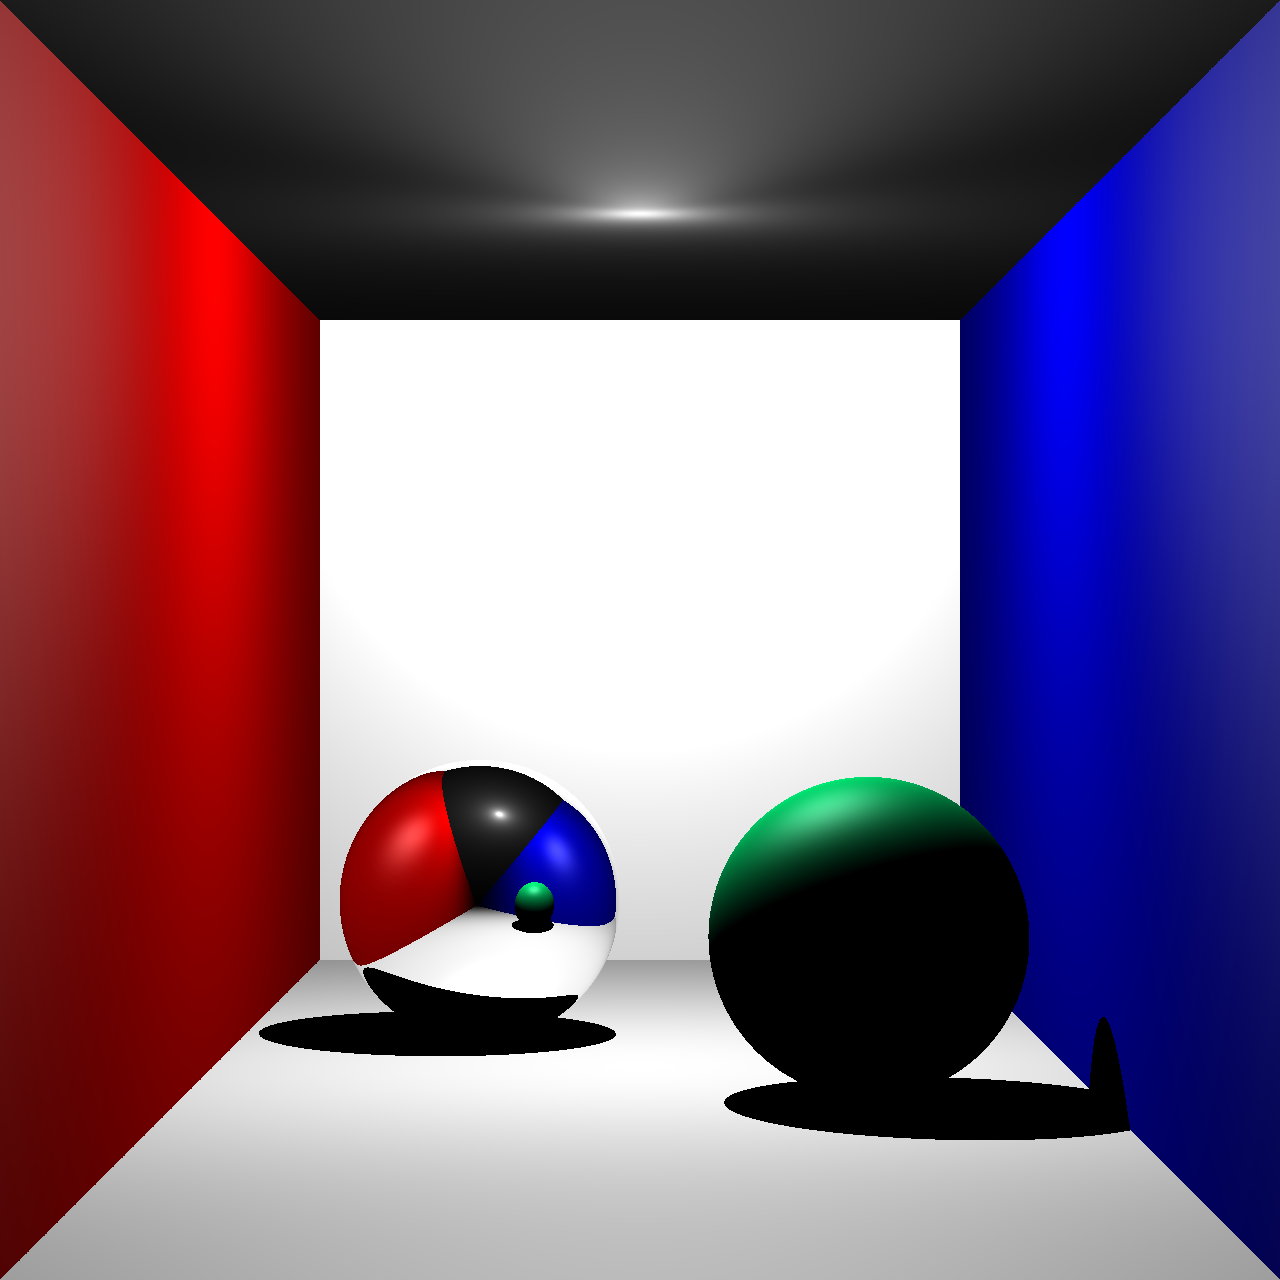
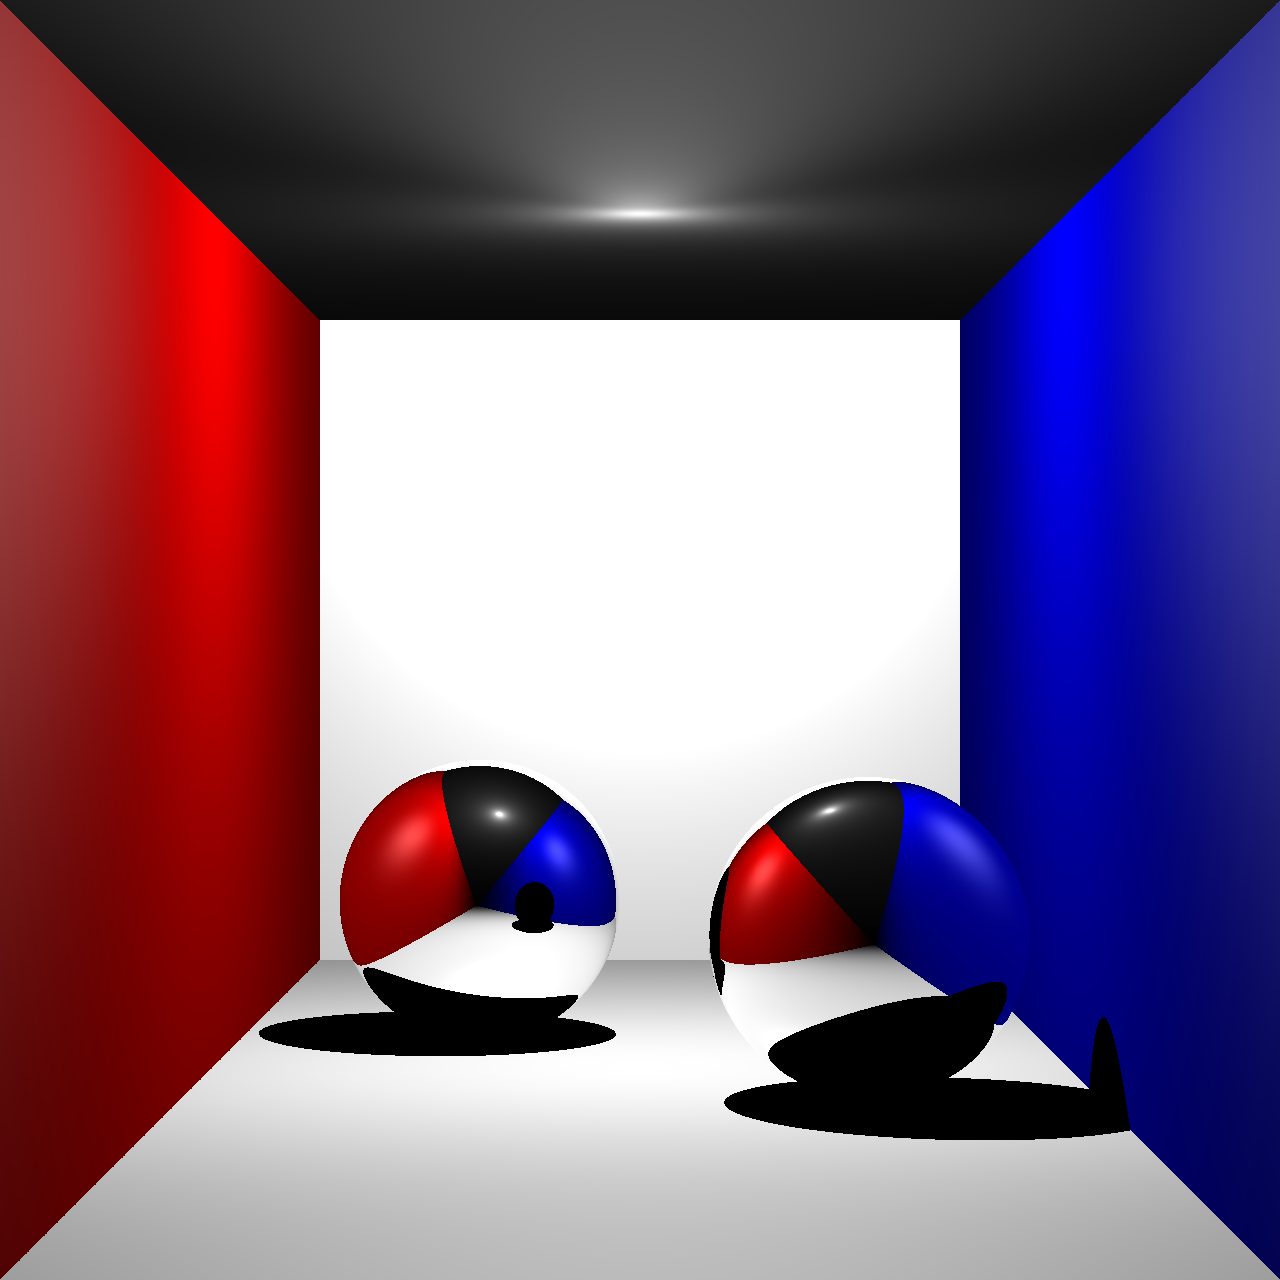
ブランチ作成

Changed region(s): [[0.5312, 0.5938, 0.8125, 0.8438], [0.4062, 0.6875, 0.4375, 0.7188]]

diff --git a/raytracing_multiLight.cpp b/raytracing_multiLight.cpp
@@ -1,7 +1,7 @@
 #include "raytracing_lib.hpp"
 
-#define GEOMETRY_NUM 2
-#define LIGHT_NUM 1
+#define GEOMETRY_NUM 6
+#define LIGHT_NUM 3
 
 int main()
 {
@@ -17,26 +17,26 @@ int main()
     // 描画オブジェクト
     Shape *geometry[GEOMETRY_NUM];
 
-    // // 球
-    // geometry[0] = new Sphere(Vector3(3, 0, 25), 1.f);
-    // geometry[1] = new Sphere(Vector3(2, 0, 20), 1.f);
-    // geometry[2] = new Sphere(Vector3(1, 0, 15), 1.f);
-    // geometry[3] = new Sphere(Vector3(0, 0, 10), 1.f);
-    // geometry[4] = new Sphere(Vector3(-1, 0, 5), 1.f);
-    // // マテリアルセット
-    // geometry[0]->material.diffuse = FColor(0.69f, 0.f, 0.f);
-    // geometry[1]->material.diffuse = FColor(0.f, 0.69f, 0.f);
-    // geometry[2]->material.diffuse = FColor(0.f, 0.f, 0.69f);
-    // geometry[3]->material.diffuse = FColor(0.f, 0.69f, 0.69f);
-    // geometry[4]->material.diffuse = FColor(0.69f, 0.f, 0.69f);
-    // // 平面
-    // geometry[5] = new Plane(Vector3(0, 1, 0), Vector3(0, -1, 0));
-
     // 球
-    geometry[0] = new Sphere(Vector3(-1, 0, 5), 1.f);
-    geometry[0]->material.diffuse = FColor(0.69f, 0.f, 0.69f);
+    geometry[0] = new Sphere(Vector3(3, 0, 25), 1.f);
+    geometry[1] = new Sphere(Vector3(2, 0, 20), 1.f);
+    geometry[2] = new Sphere(Vector3(1, 0, 15), 1.f);
+    geometry[3] = new Sphere(Vector3(0, 0, 10), 1.f);
+    geometry[4] = new Sphere(Vector3(-1, 0, 5), 1.f);
+    // マテリアルセット
+    geometry[0]->material.diffuse = FColor(0.69f, 0.f, 0.f);
+    geometry[1]->material.diffuse = FColor(0.f, 0.69f, 0.f);
+    geometry[2]->material.diffuse = FColor(0.f, 0.f, 0.69f);
+    geometry[3]->material.diffuse = FColor(0.f, 0.69f, 0.69f);
+    geometry[4]->material.diffuse = FColor(0.69f, 0.f, 0.69f);
     // 平面
-    geometry[1] = new Plane(Vector3(0, 1, 0), Vector3(0, -1, 0));
+    geometry[5] = new Plane(Vector3(0, 1, 0), Vector3(0, -1, 0));
+
+    // // 球
+    // geometry[0] = new Sphere(Vector3(0, 0, 5), 1.f);
+    // geometry[0]->material.diffuse = FColor(0.69f, 0.f, 0.69f);
+    // // 平面
+    // geometry[1] = new Plane(Vector3(0, 1, 0), Vector3(0, -1, 0));
 
     // 視点の位置を決める
     Camera camera;
@@ -51,7 +51,7 @@ int main()
 
     PointLight *point1 = new PointLight();
     point1->position = Vector3(-5, 5, -5);
-    point1->intensity = FColor(0.5, 0.5, 0.5);
+    point1->intensity = FColor(1, 1, 1);
     PointLight *point2 = new PointLight();
     point2->position = Vector3(5, 0, -5);
     point2->intensity = FColor(0.5, 0.5, 0.5);
@@ -60,8 +60,8 @@ int main()
     point3->intensity = FColor(0.5, 0.5, 0.5);
 
     lights[0] = point1;
-    // lights[1] = point2;
-    // lights[2] = point3;
+    lights[1] = point2;
+    lights[2] = point3;
 
     // シーン作成
     Scene scene;
@@ -107,7 +107,7 @@ int main()
         delete o;
     }
 
-    for(auto l : lights)
+    for (auto l : lights)
     {
         delete l;
     }

diff --git a/raytracing_lib.cpp b/raytracing_lib.cpp
@@ -215,9 +215,9 @@ FColor phongShading(
     diffuse.g = lighting.intensity.g * material.diffuse.g * normal.dot(incident);
     diffuse.b = lighting.intensity.b * material.diffuse.b * normal.dot(incident);
     diffuse.normalize();
-    recordLine("diffuse.r = %f\n", diffuse.r);
-    recordLine("diffuse.g = %f\n", diffuse.g);
-    recordLine("diffuse.b = %f\n", diffuse.b);
+    // recordLine("diffuse.r = %f\n", diffuse.r);
+    // recordLine("diffuse.g = %f\n", diffuse.g);
+    // recordLine("diffuse.b = %f\n", diffuse.b);
 
     // スペキュラー
     // 鏡面反射係数 * 光源強度 * 視線逆ベクトル・入射光の正反射ベクトル
@@ -230,9 +230,9 @@ FColor phongShading(
     specular.g = lighting.intensity.g * material.specular.g * cos_a;
     specular.b = lighting.intensity.b * material.specular.b * cos_a;
     specular.normalize();
-    recordLine("specular.r = %f\n", specular.r);
-    recordLine("specular.g = %f\n", specular.g);
-    recordLine("specular.b = %f\n", specular.b);
+    // recordLine("specular.r = %f\n", specular.r);
+    // recordLine("specular.g = %f\n", specular.g);
+    // recordLine("specular.b = %f\n", specular.b);
 
     // 視線逆ベクトルと正反射ベクトルの内積もしくは，
     // 物体面の法線ベクトルと入射ベクトルの内積が負数の場合，
@@ -389,19 +389,19 @@ void shadowing(
             FColor phong = phongShading(
                 *intersectionPoint, *ray, lighting, intersectionResult->shape->material);
             *luminance = *luminance + phong;
-            recordLine("phong.r = %f\n", phong.r);
-            recordLine("phong.g = %f\n", phong.g);
-            recordLine("phong.b = %f\n", phong.b);
+            // recordLine("phong.r = %f\n", phong.r);
+            // recordLine("phong.g = %f\n", phong.g);
+            // recordLine("phong.b = %f\n", phong.b);
 
             if (idx == scene->lightNum - 1)
             {
                 // 最後に環境光成分を加える
                 Material material = intersectionResult->shape->material;
                 *luminance = *luminance + material.ambient * scene->ambientIntensity;
-                recordLine("material.diffuse.r = %f\n", material.diffuse.r);
-                recordLine("material.diffuse.r = %f\n", material.diffuse.g);
-                recordLine("material.diffuse.r = %f\n", material.diffuse.b);
-                recordLine("====================================\n");
+                // recordLine("material.diffuse.r = %f\n", material.diffuse.r);
+                // recordLine("material.diffuse.r = %f\n", material.diffuse.g);
+                // recordLine("material.diffuse.r = %f\n", material.diffuse.b);
+                // recordLine("====================================\n");
             }
         }
     }

diff --git a/raytracing_reflection.cpp b/raytracing_reflection.cpp
@@ -1,6 +1,7 @@
 #include "raytracing_lib.hpp"
 
 #define GEOMETRY_NUM 7
+#define LIGHT_NUM 1
 
 int main()
 {
@@ -24,10 +25,10 @@ int main()
     geometry[0]->material.reflection = FColor(1.f, 1.f, 1.f);
     geometry[1] = new Sphere(Vector3(0.5, -0.65, 2), 0.35f);
     geometry[1]->material.diffuse = FColor(0.f, 1.f, 0.5f);
-    // geometry[1]->material =
-    //     Material(FColor(0.f, 0.f, 0.f), FColor(0.f, 0.f, 0.f), FColor(0.f, 0.f, 0.f), 0.f);
-    // geometry[1]->material.useReflection = true;
-    // geometry[1]->material.reflection = FColor(1.f, 1.f, 1.f);
+    geometry[1]->material =
+        Material(FColor(0.f, 0.f, 0.f), FColor(0.f, 0.f, 0.f), FColor(0.f, 0.f, 0.f), 0.f);
+    geometry[1]->material.useReflection = true;
+    geometry[1]->material.reflection = FColor(1.f, 1.f, 1.f);
 
     // 平面
     geometry[2] = new Plane(Vector3(0, 1, 0), Vector3(0, -1, 0)); // 白い床
@@ -48,12 +49,22 @@ int main()
     camera.position = Vector3(0, 0, -5);
 
     // 点光源の位置を決める
-    PointLight* pointLight = new PointLight();
+    PointLight *pointLight = new PointLight();
     pointLight->position = Vector3(0, 0.9, 2.5);
     pointLight->intensity = FColor(1.f, 1.f, 1.f);
 
-    Light* lights[1];
+    PointLight *pointLight2 = new PointLight();
+    pointLight2->position = Vector3(0, 0.9, 2.5);
+    pointLight2->intensity = FColor(1.f, 1.f, 1.f);
+    DirectionalLight *directionalLight = new DirectionalLight();
+
+    directionalLight->direction = Vector3(0, -1, 0);
+    directionalLight->intensity = FColor(1, 1, 1);
+    Light *lights[LIGHT_NUM];
+
     lights[0] = pointLight;
+    // lights[1] = directionalLight;
+    // lights[2] = pointLight2;
 
     // シーン作成
     Scene scene;
@@ -62,10 +73,9 @@ int main()
     scene.geometry = geometry;
     scene.geometryNum = GEOMETRY_NUM;
     scene.backgroundColor = FColor(100.f / 255.f, 149.f / 255.f, 237.f / 255.f);
-    scene.pointLight = pointLight;
     scene.light = lights;
-    scene.lightNum = 1;
-    scene.ambientIntensity = FColor(0.1,0.1,0.1);
+    scene.lightNum = LIGHT_NUM;
+    scene.ambientIntensity = FColor(0.1, 0.1, 0.1);
 
     // 視線方向で最も近い物体を探し，
     // その物体との交点位置とその点での法線ベクトルを求める

diff --git a/raytracing_lib.hpp b/raytracing_lib.hpp
@@ -148,6 +148,7 @@ struct Lighting
 struct Light
 {
     virtual Lighting lightingAt(Vector3 p) = 0;
+    virtual ~Light() {}
 };
 
 // 点光源
@@ -196,12 +197,12 @@ struct DirectionalLight : Light
 
 struct Scene
 {
-    BitMapData *bitmap; // ビットマップ
-    Camera *camera;     // カメラ
-    Shape **geometry;   // 表示するジオメトリ
-    int geometryNum;    // ジオメトリ数
-    Light **light;      // 光源
-    int lightNum;       // 光源の数
+    BitMapData *bitmap;      // ビットマップ
+    Camera *camera;          // カメラ
+    Shape **geometry;        // 表示するジオメトリ
+    int geometryNum;         // ジオメトリ数
+    Light **light;           // 光源
+    int lightNum;            // 光源の数
     FColor ambientIntensity; // 環境の強さ
 
     FColor backgroundColor;
